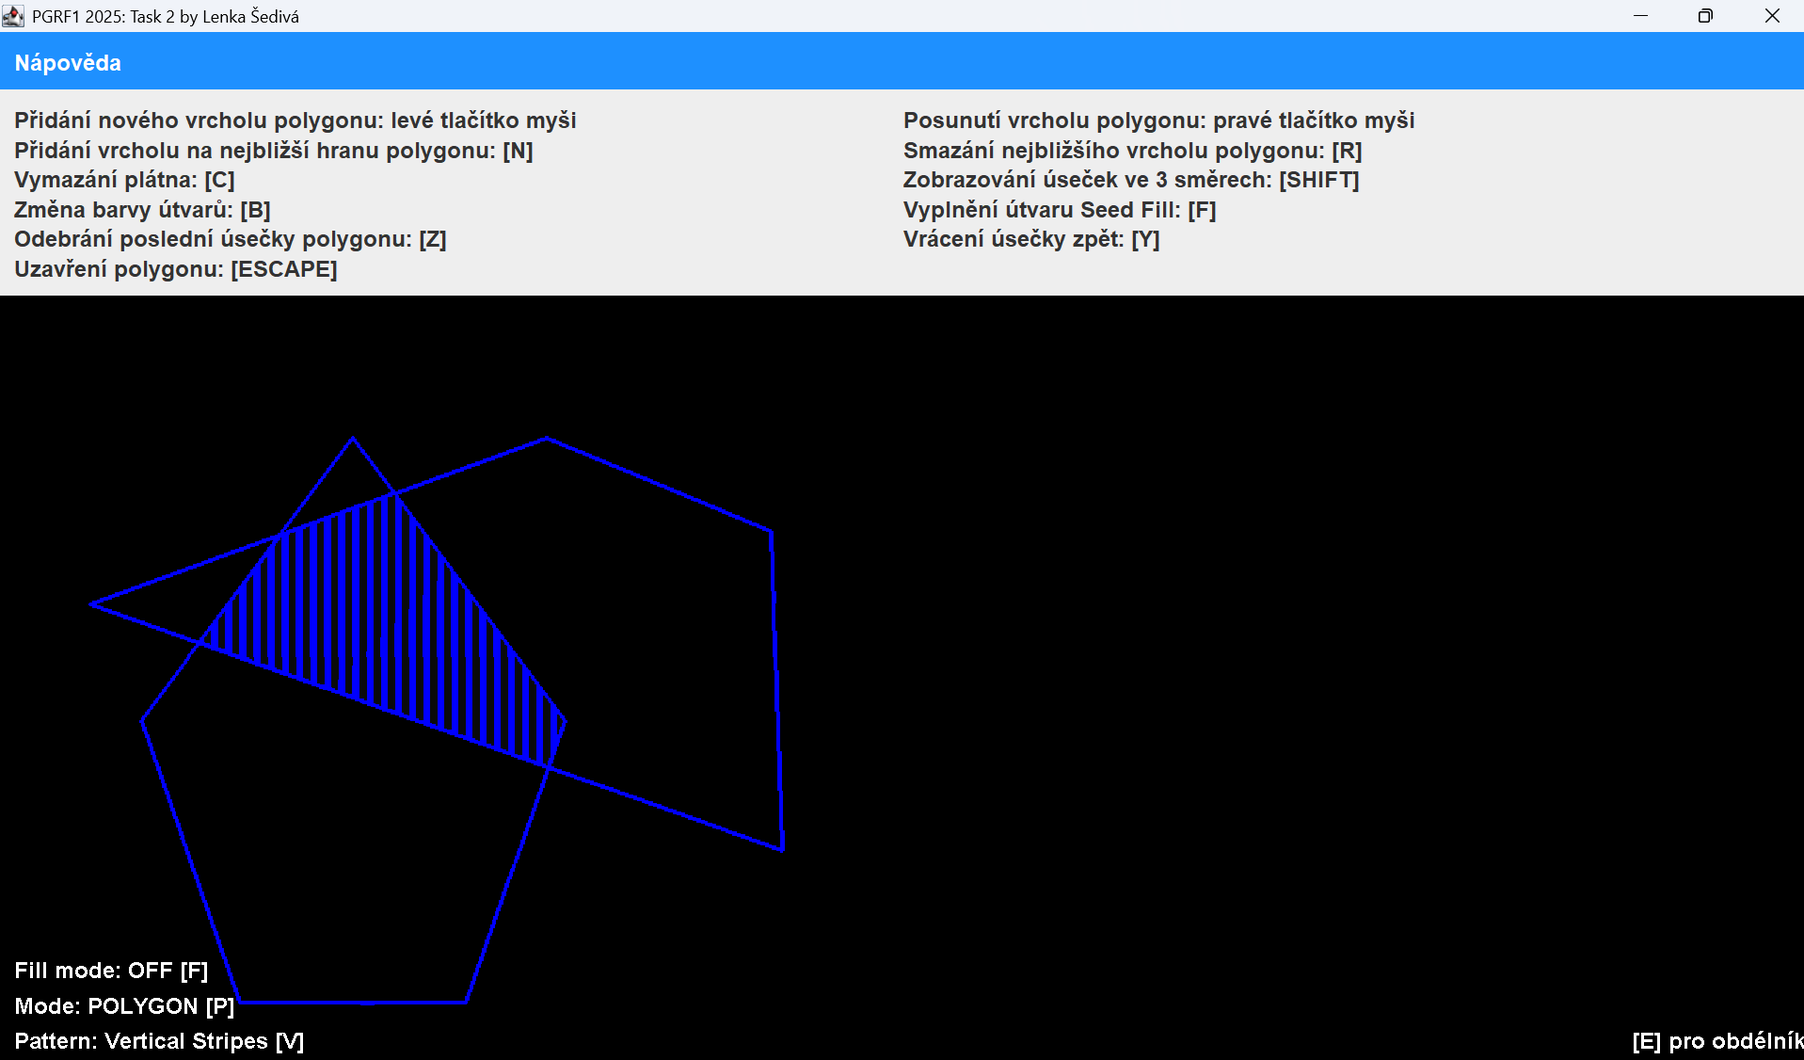
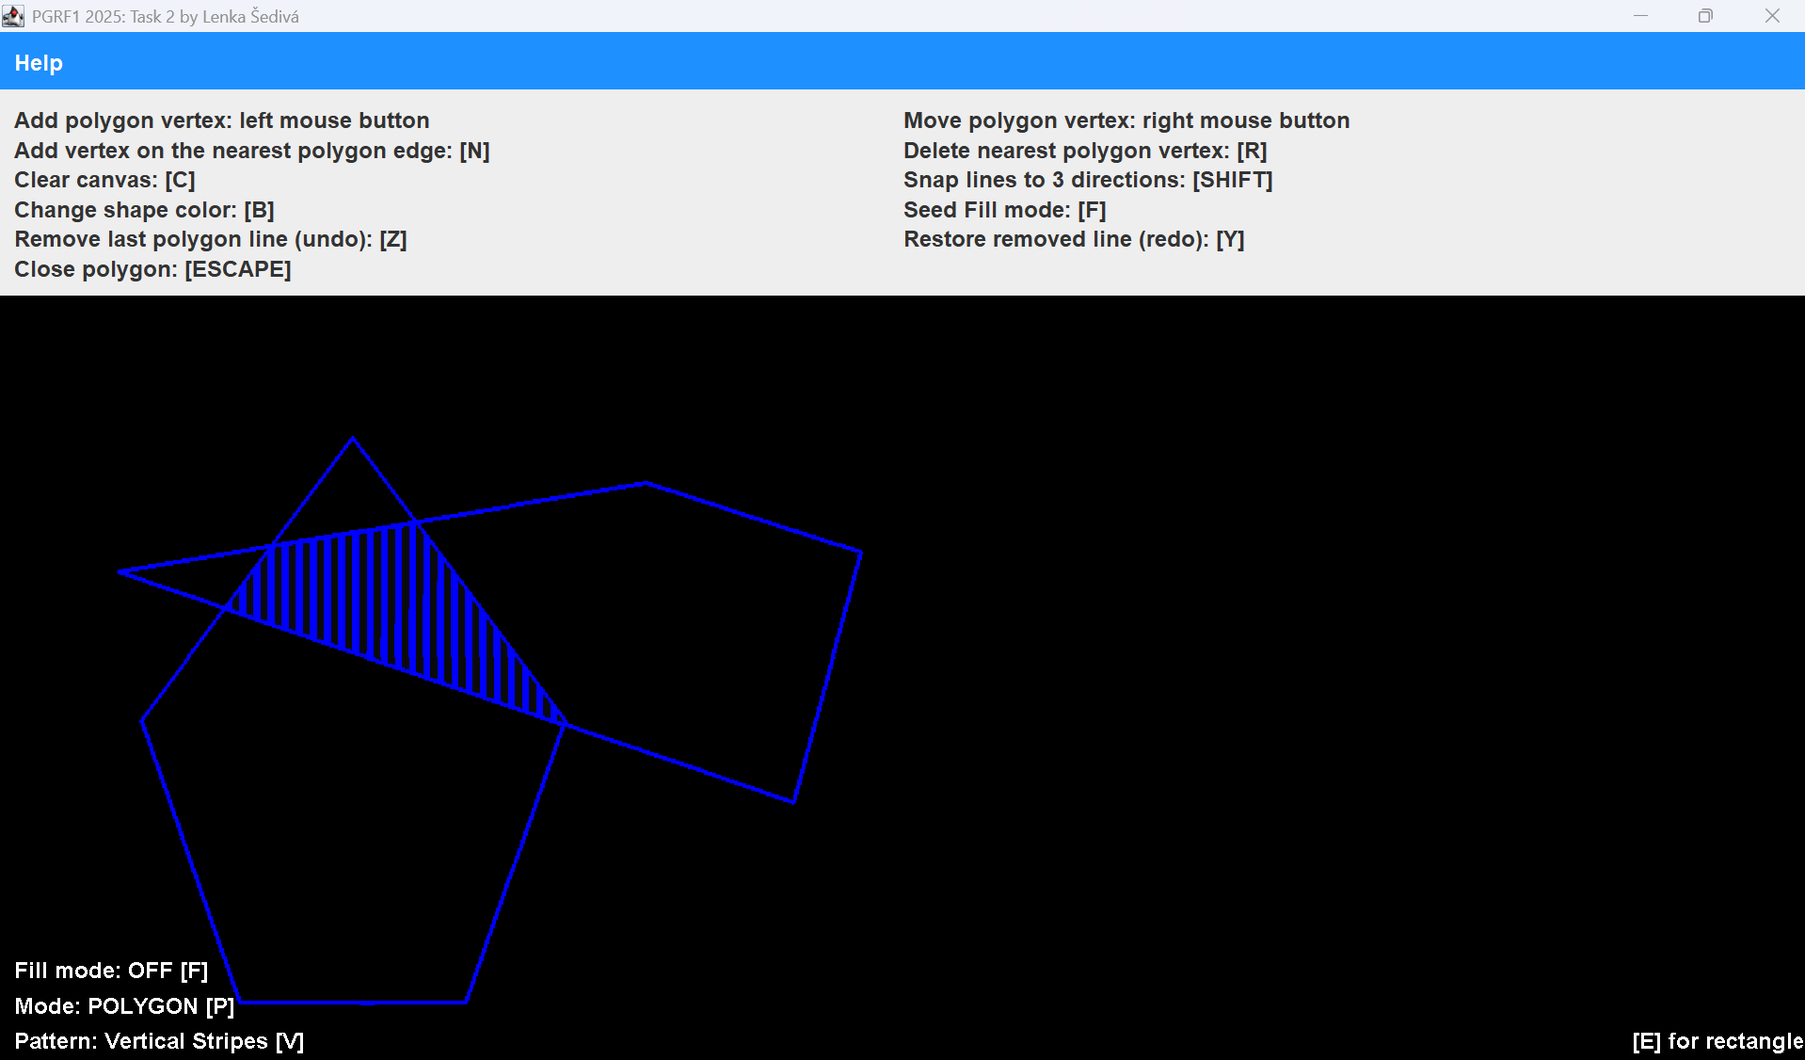
Angličtina

diff --git a/src/controller/Controller2D.java b/src/controller/Controller2D.java
@@ -74,7 +74,7 @@ public class Controller2D implements Controller {
         // výchozí stavy
         panel.setFillModeText("Fill mode: OFF [F]");
         panel.setDrawModeText("Mode: POLYGON [P]");
-        panel.setDrawModeShortcut("[E] pro obdélník");
+        panel.setDrawModeShortcut("[E] for rectangle");
         panel.setPatternText("Pattern: Vertical Stripes [V]");
 
         initObjects();
@@ -137,8 +137,8 @@ public class Controller2D implements Controller {
                 if (fillMode && clickedColor != RasterBI.getBackgroundColor().getRGB()) {
                     JOptionPane.showMessageDialog(
                             panel,
-                            "Tato oblast už je vyplněná.",
-                            "Nelze vyplnit",
+                            "This area is already filled.",
+                            "Cannot fill",
                             JOptionPane.WARNING_MESSAGE
                     );
                     return;
@@ -158,8 +158,8 @@ public class Controller2D implements Controller {
                 if(fillMode && !isInsideAnyShape(newPoint)) {
                     drawScene(); // překreslení scény, aby zmizela pružná čára
                     JOptionPane.showMessageDialog(panel,
-                            "Nelze tvořit nové útvary v režimu vyplňování.\nStisknutím [F] režim vypnete.",
-                            "Režim vyplňování",
+                            "New shapes cannot be created in fill mode.\nPress [F] to turn fill mode off.",
+                            "Fill mode",
                             JOptionPane.WARNING_MESSAGE);
                     start = null; // reset obdélníku
                     return; // nedovolí pokračovat v kreslení
@@ -254,7 +254,7 @@ public class Controller2D implements Controller {
 
                     // otevře dialog pro výběr barvy vykreslování
                     case KeyEvent.VK_B:
-                        Color selectedColor = JColorChooser.showDialog(panel, "Vyber barvu úsečky", polygonColor);
+                        Color selectedColor = JColorChooser.showDialog(panel, "Choose line color", polygonColor);
                         if (selectedColor != null) {
                             polygonColor = selectedColor;
                             liner.setColor(polygonColor);
@@ -273,14 +273,14 @@ public class Controller2D implements Controller {
                     case KeyEvent.VK_P:
                         currentMode = DrawMode.POLYGON;
                         panel.setDrawModeText("Mode: " + currentMode.name() + " [P]");
-                        panel.setDrawModeShortcut("[E] pro obdélník");
+                        panel.setDrawModeShortcut("[E] for rectangle");
                         break;
 
                     // mód obdélníku
                     case KeyEvent.VK_E:
                         currentMode = DrawMode.RECTANGLE;
                         panel.setDrawModeText("Mode: " + currentMode.name() + " [E]");
-                        panel.setDrawModeShortcut("[P] pro polygon");
+                        panel.setDrawModeShortcut("[P] for polygon");
                         break;
 
                     // přepínání vzorů po ořezu pro scan line
@@ -453,9 +453,9 @@ public class Controller2D implements Controller {
         if (rectangle.size() == 1 && Math.abs(start.getX() - e.getX()) < 3 && Math.abs(start.getY() - e.getY()) < 3 && !fillMode) {
             JOptionPane.showMessageDialog(
                     panel,
-                    "Obdélník nelze vytvořit pouze kliknutím.\n" +
-                            "Chyťte myší bod a táhněte pro vytvoření základny.",
-                    "Chyba kreslení obdélníku",
+                    "A rectangle cannot be created with a single click.\n" +
+                            "Press the mouse button and drag to create the base.",
+                    "Rectangle drawing error",
                     JOptionPane.WARNING_MESSAGE
             );
             start = null;

diff --git a/src/view/Window.java b/src/view/Window.java
@@ -35,7 +35,7 @@ public class Window extends JFrame {
         Font bigFont = new Font("SansSerif", Font.BOLD, 16);
         UIManager.put("Label.font", bigFont); // nastaví výchozí font pro všechny JLabel
 
-        JLabel helpLabel = new JLabel("Nápověda");
+        JLabel helpLabel = new JLabel("Help");
         helpLabel.setForeground(Color.WHITE); // bílý text
         helpLabel.setBackground(new Color(30, 144, 255)); // modré pozadí (DogerBlue)
         helpLabel.setOpaque(true);
@@ -49,20 +49,20 @@ public class Window extends JFrame {
 
         JPanel leftPanel = new JPanel();
         leftPanel.setLayout(new BoxLayout(leftPanel, BoxLayout.Y_AXIS));
-        leftPanel.add(new JLabel("Přidání nového vrcholu polygonu: levé tlačítko myši"));
-        leftPanel.add(new JLabel("Přidání vrcholu na nejbližší hranu polygonu: [N]"));
-        leftPanel.add(new JLabel("Vymazání plátna: [C]"));
-        leftPanel.add(new JLabel("Změna barvy útvarů: [B]"));
-        leftPanel.add(new JLabel("Odebrání poslední úsečky polygonu: [Z]"));
-        leftPanel.add(new JLabel("Uzavření polygonu: [ESCAPE]"));
+        leftPanel.add(new JLabel("Add polygon vertex: left mouse button"));
+        leftPanel.add(new JLabel("Add vertex on the nearest polygon edge: [N]"));
+        leftPanel.add(new JLabel("Clear canvas: [C]"));
+        leftPanel.add(new JLabel("Change shape color: [B]"));
+        leftPanel.add(new JLabel("Remove last polygon line (undo): [Z]"));
+        leftPanel.add(new JLabel("Close polygon: [ESCAPE]"));
 
         JPanel rightPanel = new JPanel();
         rightPanel.setLayout(new BoxLayout(rightPanel, BoxLayout.Y_AXIS));
-        rightPanel.add(new JLabel("Posunutí vrcholu polygonu: pravé tlačítko myši"));
-        rightPanel.add(new JLabel("Smazání nejbližšího vrcholu polygonu: [R]"));
-        rightPanel.add(new JLabel("Zobrazování úseček ve 3 směrech: [SHIFT]"));
-        rightPanel.add(new JLabel("Vyplnění útvaru Seed Fill: [F]"));
-        rightPanel.add(new JLabel("Vrácení úsečky zpět: [Y]"));
+        rightPanel.add(new JLabel("Move polygon vertex: right mouse button"));
+        rightPanel.add(new JLabel("Delete nearest polygon vertex: [R]"));
+        rightPanel.add(new JLabel("Snap lines to 3 directions: [SHIFT]"));
+        rightPanel.add(new JLabel("Seed Fill mode: [F]"));
+        rightPanel.add(new JLabel("Restore removed line (redo): [Y]"));
 
         columnsPanel.add(leftPanel);
         columnsPanel.add(rightPanel);

diff --git a/src/model/objectdata/Line.java b/src/model/objectdata/Line.java
@@ -116,7 +116,7 @@ public class Line {
         double x4 = q2.getX(), y4 = q2.getY();
 
         double denom = (x1 - x2) * (y3 - y4) - (y1 - y2) * (x3 - x4);
-        if (denom == 0) throw new IllegalArgumentException("Rovnoběžné hrany – nelze spočítat průsečík");
+        if (denom == 0) throw new IllegalArgumentException("Parallel edges - cannot compute intersection");
 
         double px = ((x1*y2 - y1*x2)*(x3 - x4) - (x1 - x2)*(x3*y4 - y3*x4)) / denom;
         double py = ((x1*y2 - y1*x2)*(y3 - y4) - (y1 - y2)*(x3*y4 - y3*x4)) / denom;

diff --git a/README.md b/README.md
@@ -1,60 +1,60 @@
-# 2D malování
+# 2D Painting
 
-Interaktivní 2D rastrový editor polygonů a obdélníků v Javě (Swing), vytvořený jako úloha do předmětu **PGRF1 2025** (autorka: Lenka Šedivá).
+An interactive 2D raster editor for polygons and rectangles written in Java (Swing), created as an assignment for the **PGRF1 2025** course (author: Lenka Šedivá).
 
-Aplikace nepoužívá vestavěné kreslicí funkce Javy. Úsečky, vyplňování i ořezávání jsou implementované vlastními algoritmy, které zapisují přímo do pixelového rastru (`BufferedImage`).
+The application does not use Java's built-in drawing functions. Line drawing, filling and clipping are implemented with custom algorithms that write directly into a pixel raster (`BufferedImage`).
 
-![Ukázka aplikace](docs/images/screenshot.png)
+![Application screenshot](docs/images/screenshot_CZ.png)
 
-## Funkce
+## Features
 
-- **Kreslení polygonů**: přidávání vrcholů myší, pružná (čárkovaná, barevně přechodová) čára k poslednímu i prvnímu vrcholu, uzavření polygonu a kreslení dalších objektů.
-- **Kreslení obdélníků**: tažením myši se zadá základna, třetím kliknutím výška. Obdélník může být libovolně natočený.
-- **Editace vrcholů**: posun vrcholu tažením, vložení nového vrcholu na nejbližší hranu, smazání nejbližšího vrcholu.
-- **Zarovnání úseček**: se stisknutým `Shift` se úsečka přichytí na vodorovný, svislý nebo diagonální (45°) směr.
-- **Undo / Redo** posledních přidaných úseček.
-- **Ořezávání**: každý polygon i obdélník se ořezává konvexním pětiúhelníkem (algoritmus Sutherland–Hodgman). Ořezaná oblast se vyplní vzorem pomocí Scan Line. I vrcholy pětiúhelníku lze posouvat.
-- **Vyplňování Seed Fill**: v režimu vyplňování se oblast vybarví záplavovým algoritmem od místa kliknutí (křížový vzor).
-- **Vzory výplně**: svislé pruhy, šachovnice, vodorovné pruhy, tečky (a křížový vzor pro Seed Fill).
-- **Výběr barvy** útvarů přes `JColorChooser`.
-- Při změně velikosti okna se vytvoří nový rastr a scéna se překreslí.
+- **Polygon drawing**: add vertices with the mouse, rubber-band (dashed, color-gradient) lines to the last and first vertex, close the polygon and draw further objects.
+- **Rectangle drawing**: drag the mouse to define the base, then click a third time to set the height. The rectangle can be rotated arbitrarily.
+- **Vertex editing**: move a vertex by dragging, insert a new vertex on the nearest edge, delete the nearest vertex.
+- **Line snapping**: while holding `Shift`, a line snaps to the horizontal, vertical or diagonal (45°) direction.
+- **Undo / Redo** of the most recently added lines.
+- **Clipping**: every polygon and rectangle is clipped by a convex pentagon (Sutherland–Hodgman algorithm). The clipped area is filled with a pattern using Scan Line. The pentagon's vertices can be moved too.
+- **Seed Fill**: in fill mode, the area is filled using a flood-fill algorithm starting at the clicked point (cross pattern).
+- **Fill patterns**: vertical stripes, checkerboard, horizontal stripes, dots (plus a cross pattern for Seed Fill).
+- **Shape color selection** via `JColorChooser`.
+- When the window is resized, a new raster is created and the scene is redrawn.
 
-## Ovládání
+## Controls
 
-| Akce | Ovládání |
+| Action | Control |
 |---|---|
-| Přidání vrcholu polygonu / bodu obdélníku | levé tlačítko myši |
-| Posunutí vrcholu (polygon i ořezávací pětiúhelník) | pravé tlačítko myši + tažení |
-| Zarovnání úsečky na 3 směry (vodorovně / svisle / 45°) | držet `Shift` |
-| Přidání vrcholu na nejbližší hranu (pod kurzorem) | `N` |
-| Smazání nejbližšího vrcholu | `R` |
-| Uzavření polygonu a začátek nového | `Esc` |
-| Odebrání poslední úsečky (undo) | `Z` |
-| Vrácení odebrané úsečky (redo) | `Y` |
-| Změna barvy | `B` |
-| Zapnutí / vypnutí režimu vyplňování Seed Fill | `F` |
-| Přepnutí vzoru výplně ořezané oblasti | `V` |
-| Režim kreslení polygonu | `P` |
-| Režim kreslení obdélníku | `E` |
-| Vymazání plátna | `C` |
+| Add a polygon vertex / rectangle point | left mouse button |
+| Move a vertex (polygon and clipping pentagon) | right mouse button + drag |
+| Snap line to 3 directions (horizontal / vertical / 45°) | hold `Shift` |
+| Add a vertex on the nearest edge (under the cursor) | `N` |
+| Delete the nearest vertex | `R` |
+| Close the polygon and start a new one | `Esc` |
+| Remove the last line (undo) | `Z` |
+| Restore the removed line (redo) | `Y` |
+| Change color | `B` |
+| Toggle Seed Fill mode | `F` |
+| Switch fill pattern of the clipped area | `V` |
+| Polygon drawing mode | `P` |
+| Rectangle drawing mode | `E` |
+| Clear the canvas | `C` |
 
-**Obdélník:** stiskněte levé tlačítko v počátečním bodě, táhněte na konec základny a pusťte. Dalším kliknutím určete výšku. Samotné kliknutí bez tažení obdélník nevytvoří.
+**Rectangle:** press the left mouse button at the starting point, drag to the end of the base and release. Click again to set the height. A single click without dragging does not create a rectangle.
 
-V režimu vyplňování (`F`) nelze vytvářet nové útvary, kliknutí uvnitř útvaru spustí Seed Fill. Aktuální režim, stav vyplňování a zvolený vzor se zobrazují v levém dolním rohu plátna.
+In fill mode (`F`) new shapes cannot be created; clicking inside a shape starts Seed Fill. The current mode, fill state and selected pattern are shown in the bottom-left corner of the canvas.
 
-## Spuštění
+## Running
 
-Potřebujete **Javu 21 nebo novější** (kód používá `List.getLast()` a `switch` výrazy). Projekt nemá žádné externí závislosti ani build nástroj.
+You need **Java 21 or newer** (the code uses `List.getLast()` and `switch` expressions). The project has no external dependencies and no build tool.
 
-### Stažení hotové verze
+### Download a prebuilt version
 
-Na stránce [Releases](https://github.com/lenka-sediva/basic-polygons/releases) stáhněte soubor `basic-polygons.jar` a spusťte ho dvojklikem, nebo z příkazové řádky:
+Download `basic-polygons.jar` from the [Releases](https://github.com/lenka-sediva/basic-polygons/releases) page and run it by double-clicking, or from the command line:
 
 ```bash
 java -jar basic-polygons.jar
 ```
 
-### Sestavení JAR souboru
+### Building the JAR
 
 ```bash
 mkdir -p build/classes
@@ -62,7 +62,7 @@ javac --release 21 -encoding UTF-8 -d build/classes $(find src -name "*.java")
 jar --create --file build/basic-polygons.jar --main-class App -C build/classes .
 ```
 
-V PowerShellu:
+In PowerShell:
 
 ```powershell
 javac --release 21 -encoding UTF-8 -d build/classes (Get-ChildItem -Recurse src -Filter *.java).FullName
@@ -71,81 +71,85 @@ jar --create --file build/basic-polygons.jar --main-class App -C build/classes .
 
 ### IntelliJ IDEA
 
-Otevřete složku projektu a spusťte třídu `App` (`src/App.java`).
+Open the project folder and run the `App` class (`src/App.java`).
 
-### Příkazová řádka
+### Command line
 
 ```bash
 javac -d out $(find src -name "*.java")
 java -cp out App
 ```
 
-V PowerShellu:
+In PowerShell:
 
 ```powershell
 javac -d out (Get-ChildItem -Recurse src -Filter *.java).FullName
 java -cp out App
 ```
 
-## Struktura projektu
+## Project structure
 
-Projekt je rozdělený podle vzoru MVC:
+The project follows the MVC pattern:
 
 ```
 src/
-├── App.java                         vstupní bod, vytvoří okno a Controller2D
+├── App.java                         entry point, creates the window and Controller2D
 ├── controller/
-│   ├── Controller.java              rozhraní kontroleru
-│   ├── Controller2D.java            obsluha myši a klávesnice, stav scény, vykreslování
-│   └── Controller3D.java            prázdný základ pro budoucí 3D část
+│   ├── Controller.java              controller interface
+│   ├── Controller2D.java            mouse and keyboard handling, scene state, rendering
+│   └── Controller3D.java            empty base for a future 3D part
 ├── model/
-│   ├── objectdata/                  geometrická data
-│   │   ├── Point2D.java             bod, vzdálenosti
-│   │   ├── Line.java                úsečka, průsečíky, test bodu v polygonu
-│   │   ├── Polygon.java             seznam vrcholů, hledání nejbližšího bodu/hrany, orientace
-│   │   └── Rectangle.java           obdélník ze základny a bodu výšky
+│   ├── objectdata/                  geometric data
+│   │   ├── Point2D.java             point, distances
+│   │   ├── Line.java                line segment, intersections, point-in-polygon test
+│   │   ├── Polygon.java             vertex list, nearest point/edge lookup, orientation
+│   │   └── Rectangle.java           rectangle from a base and a height point
 │   ├── rasterdata/
-│   │   ├── Raster.java              rozhraní rastru
-│   │   └── RasterBI.java            implementace nad BufferedImage
+│   │   ├── Raster.java              raster interface
+│   │   └── RasterBI.java            implementation backed by BufferedImage
 │   └── rasterops/
 │       ├── clip/SutherlandHodgman.java
 │       ├── filler/                  Filler, ScanLine, SeedFill, PatternFill
-│       └── rasterizer/              rasterizace úseček a polygonů
+│       └── rasterizer/              line and polygon rasterization
 └── view/
-    ├── Window.java                  hlavní okno s panelem nápovědy
-    └── Panel.java                   plátno a stavový text
+    ├── Window.java                  main window with the help panel
+    └── Panel.java                   canvas and status text
 ```
 
-## Implementované algoritmy
+## Implemented algorithms
 
-### Rasterizace úseček (`model/rasterops/rasterizer`)
+### Line rasterization (`model/rasterops/rasterizer`)
 
-| Třída | Algoritmus | Použití |
+| Class | Algorithm | Usage |
 |---|---|---|
-| `LineRasterizerBresenham` | Bresenhamův algoritmus s tloušťkou čáry (kapslový efekt) | hrany útvarů (přes `FilledLineRasterizer`) |
-| `DashedLineRasterizer` | DDA, čárkovaná čára s barevným přechodem (`Gradient`) | pružná čára při kreslení |
-| `LineRasterizerTrivial` | triviální algoritmus (směrnicový tvar přímky) | ukázka, v aplikaci nepoužitý |
-| `LineRasterizerXiaolinWu` | Xiaolin Wu (anti-aliasing) | ukázka, v aplikaci nepoužitý |
-| `LineRasterizerGraphics` | vestavěné `Graphics.drawLine` | pro porovnání |
+| `LineRasterizerBresenham` | Bresenham's algorithm with line thickness (capsule effect) | shape edges (via `FilledLineRasterizer`) |
+| `DashedLineRasterizer` | DDA, dashed line with a color gradient (`Gradient`) | rubber-band line while drawing |
+| `LineRasterizerTrivial` | trivial algorithm (slope-intercept form) | example, not used in the app |
+| `LineRasterizerXiaolinWu` | Xiaolin Wu (anti-aliasing) | example, not used in the app |
+| `LineRasterizerGraphics` | built-in `Graphics.drawLine` | for comparison |
 
-`PolygonRasterizer` vykreslí uzavřený polygon jako posloupnost úseček pomocí zvoleného rasterizéru.
+`PolygonRasterizer` draws a closed polygon as a sequence of lines using the selected rasterizer.
 
-### Vyplňování (`model/rasterops/filler`)
+### Filling (`model/rasterops/filler`)
 
-- **`ScanLine`**: řádkové vyplňování polygonu. Vynechá vodorovné hrany, spočítá průsečíky hran se skenovací přímkou, seřadí je (insertion sort) a vyplní úseky mezi dvojicemi průsečíků. Nakonec obtáhne hranici.
-- **`SeedFill`**: záplavové vyplňování ve dvou variantách:
-  - omezení **podle pozadí** pomocí zásobníku (`seedFillStack`),
-  - omezení **podle barvy hranice** pomocí fronty (`seedFillQueue`).
+- **`ScanLine`**: scan-line polygon filling. Skips horizontal edges, computes intersections of the edges with the scan line, sorts them (insertion sort) and fills the spans between pairs of intersections. Finally it draws the boundary.
+- **`SeedFill`**: flood fill in two variants:
+  - bounded **by background color** using a stack (`seedFillStack`),
+  - bounded **by boundary color** using a queue (`seedFillQueue`).
 
-  Obě varianty umí 4- i 8-souvislé vyplňování a jednobarevnou výplň nebo vzor.
-- **`PatternFill`**: funkční rozhraní, které vrací barvu pro pixel `(x, y)`. Obsahuje továrny `checkerboard`, `horizontalStripes`, `verticalStripes`, `dots` a `cross`.
+  Both variants support 4- and 8-connected filling and either a solid color or a pattern.
+- **`PatternFill`**: a functional interface that returns the color for pixel `(x, y)`. Contains the factories `checkerboard`, `horizontalStripes`, `verticalStripes`, `dots` and `cross`.
 
-### Ořezávání (`model/rasterops/clip`)
+### Clipping (`model/rasterops/clip`)
 
-- **`SutherlandHodgman`**: ořez libovolného polygonu konvexním ořezávacím polygonem. Orientace ořezávacího polygonu (CW/CCW) se určuje automaticky (`Polygon.getOrientation`), takže na pořadí vrcholů nezáleží. Test „uvnitř“ používá skalární součin s normálou hrany (`Line.isInside`).
+- **`SutherlandHodgman`**: clips an arbitrary polygon by a convex clipping polygon. The orientation of the clipping polygon (CW/CCW) is detected automatically (`Polygon.getOrientation`), so vertex order does not matter. The "inside" test uses the dot product with the edge normal (`Line.isInside`).
 
-### Další geometrie
+### Other geometry
 
-- Test, zda bod leží uvnitř polygonu: paprskový algoritmus (počet průsečíků) v `Line.isPointInsidePolygon`.
-- Vzdálenost bodu od úsečky (projekce na úsečku) v `Point2D.distancePointToLine`.
-- Konstrukce obdélníku: projekce třetího bodu na normálu základny v `Rectangle.buildVertices`.
+- Point-in-polygon test: ray casting (intersection count) in `Line.isPointInsidePolygon`.
+- Distance from a point to a line segment (projection onto the segment) in `Point2D.distancePointToLine`.
+- Rectangle construction: projection of the third point onto the base normal in `Rectangle.buildVertices`.
+
+## License
+
+This project is licensed under the [MIT License](LICENSE).
